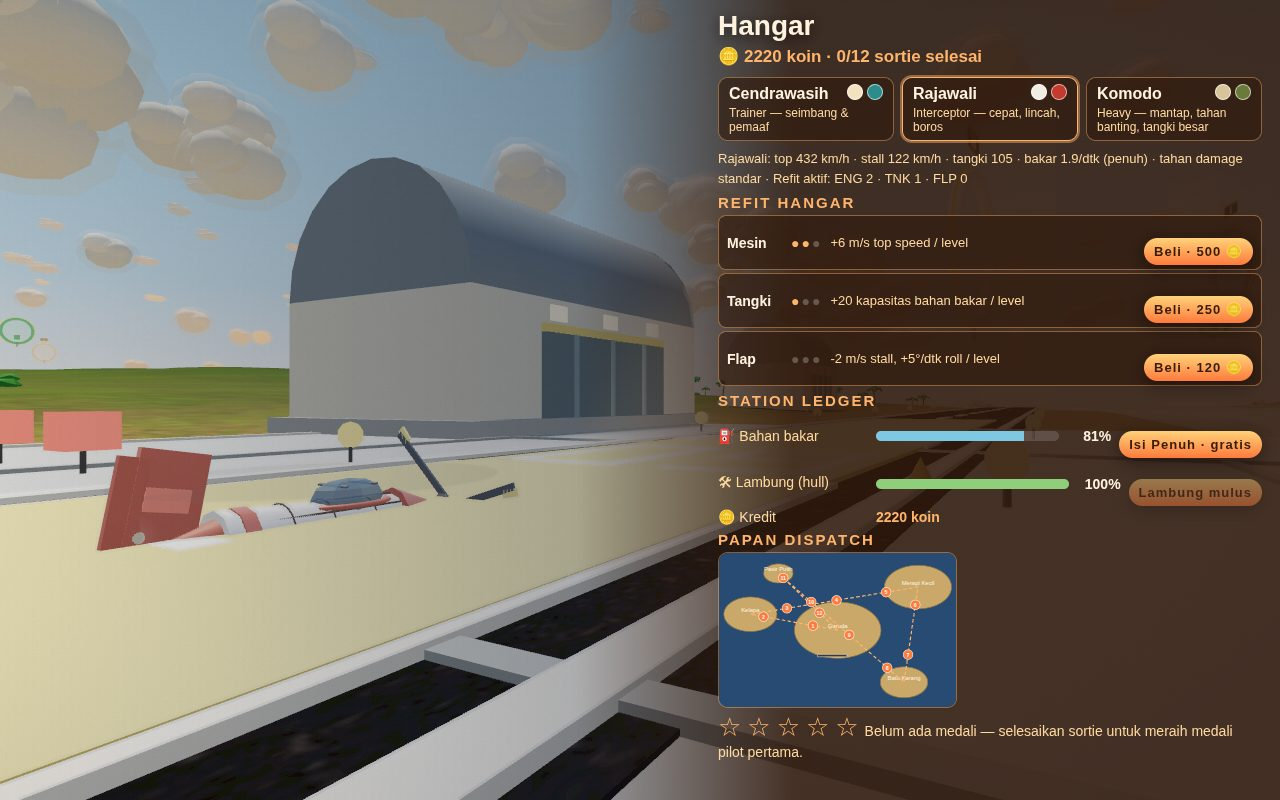
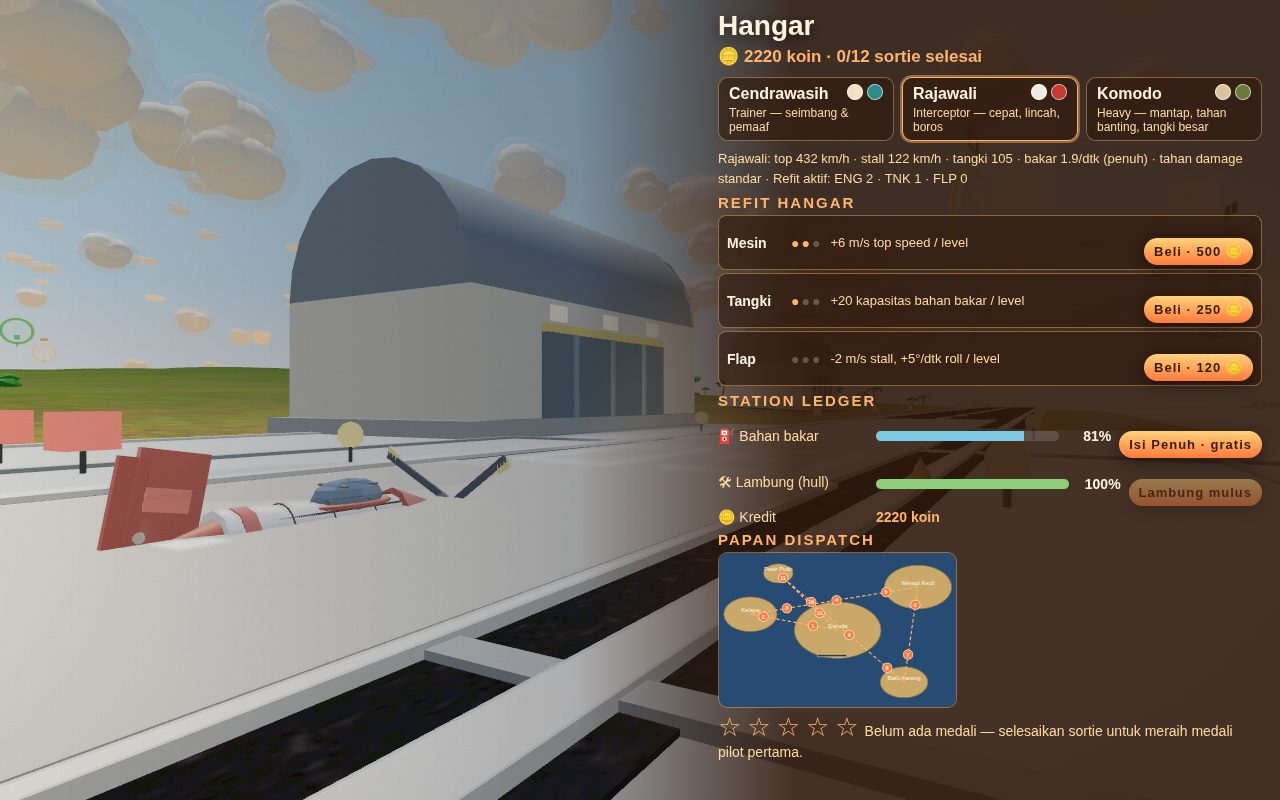
R2-13e: hangar tarmac paint tone + re-shoot

Changed region(s): [[0.0, 0.5938, 0.25, 0.9688], [0.2812, 0.5312, 0.4062, 0.625], [0.2812, 0.7812, 0.3125, 0.8125]]

diff --git a/game/src/world.js b/game/src/world.js
@@ -27,7 +27,12 @@ const PALETTE = {
   hutRoof: 0xb4552d,
   asphalt: 0x3a3d42,
   paintWhite: 0xf5f2e8,
-  paintYellow: 0xffc93c,
+  // R2-13e pass 2: one step greyer still — pass 1 (0xc2ad85) left the
+  // sunlit zone at R-G 4.8 / R-B 9.5, still faintly warm-cream in the
+  // frame. 0xb5a992 keeps a whisper of weathered-yellow warmth so the
+  // zone stays distinct from the cool apron grey, but the rendered
+  // tarmac should now sit at R-B ~5, i.e. concrete-grey.
+  paintYellow: 0xb5a992,
   ringOrange: 0xff7a1a,
   stormRed: 0xd43d2a,
   fuelGreen: 0x35d461,
